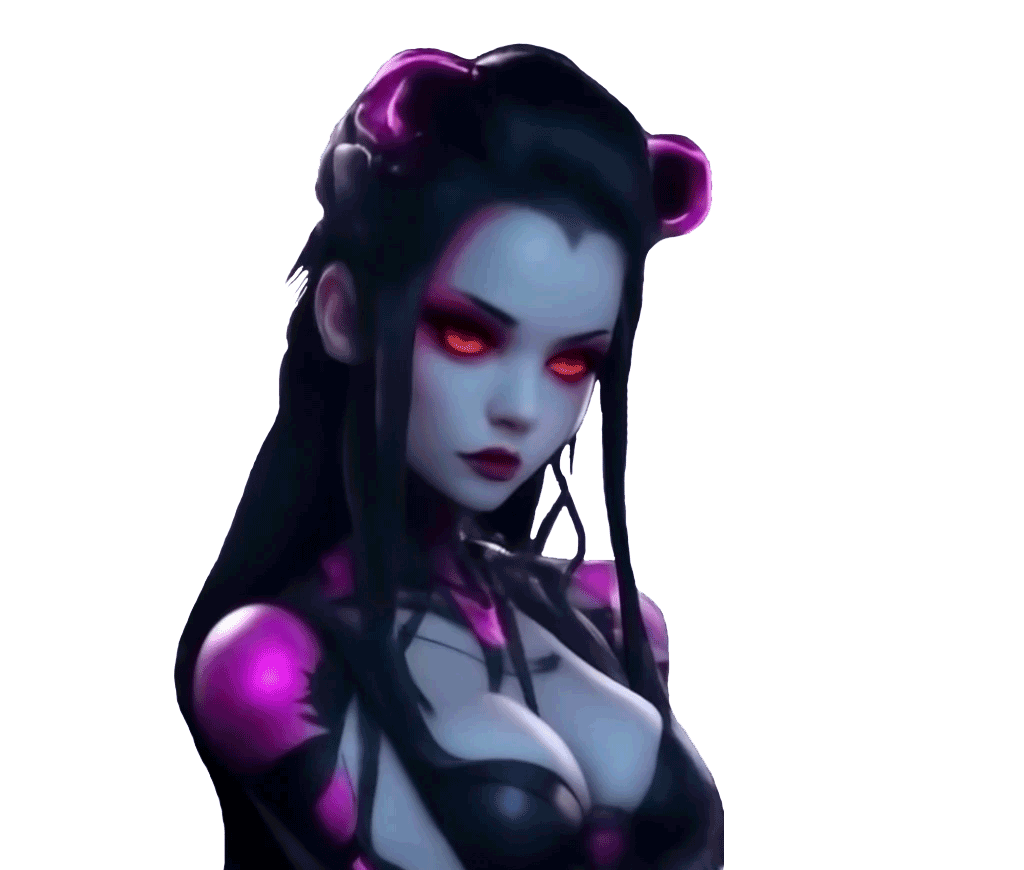
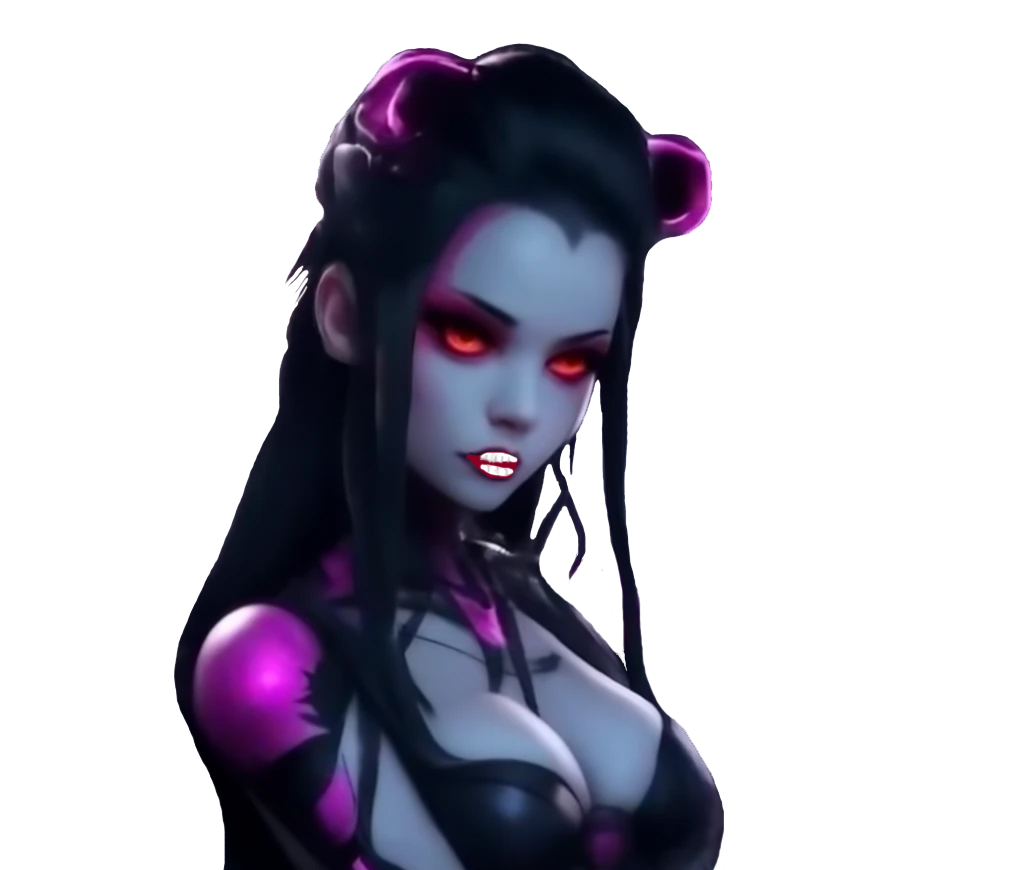
Add files via upload

diff --git a/index.html b/index.html
@@ -1,41 +1,75 @@
 <!DOCTYPE html>
 <html lang="fr">
 <head>
-  <meta charset="UTF-8">
-  <title>Widget Avatar PNG</title>
+  <meta charset="UTF-8" />
+  <meta name="viewport" content="width=device-width,initial-scale=1" />
+  <title>Widget Lina animé</title>
   <style>
-    body {
-      margin: 0;
-      background-color: #111;
-      display: flex;
-      justify-content: center;
-      align-items: center;
-      height: 100vh;
+    /* Container flottant */
+    #lina-widget {
+      position: fixed;
+      bottom: 20px;
+      right: 20px;
+      width: 200px;
+      user-select: none;
+      z-index: 9999;
     }
 
-    #widget-container {
-      position: relative;
-      width: 300px; /* ajuste selon la taille de ton PNG */
-      height: auto;
-    }
-
-    #avatar {
+    /* Image de fond (ton avatar complet) */
+    #lina-widget .base {
       width: 100%;
-      height: auto;
-      image-rendering: pixelated;
-      animation: idle-float 3s ease-in-out infinite;
+      display: block;
     }
 
-    @keyframes idle-float {
-      0%, 100% { transform: translateY(0); }
-      50% { transform: translateY(-5px); }
+    /* Calque lèvres (haut et bas) */
+    #lina-widget .lips {
+      position: absolute;
+      left: 0;
+      top: 0;
+      width: 100%;
+      pointer-events: none;
+    }
+
+    /* Animation : on fait apparaître la lèvre ouverte au milieu de la boucle */
+    @keyframes lip-sync {
+      0%, 40%, 60%, 100% { opacity: 0; }
+      50%             { opacity: 1; }
+    }
+
+    /* Lèvre supérieure et inférieure partagent le même timing */
+    #lina-widget .lip-open {
+      animation: lip-sync 1s infinite ease-in-out;
+    }
+
+    /* Bouton fermer */
+    #close-widget {
+      position: absolute;
+      top: -10px;
+      right: -10px;
+      background: #ff4d4d;
+      color: white;
+      width: 24px;
+      height: 24px;
+      line-height: 24px;
+      text-align: center;
+      border-radius: 50%;
+      font-weight: bold;
+      cursor: pointer;
+      box-shadow: 0 0 5px rgba(0,0,0,0.3);
     }
   </style>
 </head>
 <body>
-  <div id="widget-container">
-    <img id="avatar" src="https://nagashud.github.io/lina-widget/assets/Lina.png" alt="/assets/Lina.png">
-  </div>
-  <script src="lina-widget.js"></script>
+
+<div id="lina-widget">
+  <div id="close-widget" onclick="this.parentNode.remove()">×</div>
+  <!-- Avatar de base -->
+  <img class="base" src="https://nagashud.github.io/lina-widget/assets/Lina.png" alt="Lina" />
+  <!-- Calque lèvres basses -->
+  <img class="lips lip-open" src="https://nagashud.github.io/lina-widget/assets/Lina_levre_bas.png" alt="" />
+  <!-- Calque lèvres hautes -->
+  <img class="lips lip-open" src="https://nagashud.github.io/lina-widget/assets/Lina_levre_haut.png" alt="" />
+</div>
+
 </body>
 </html>
